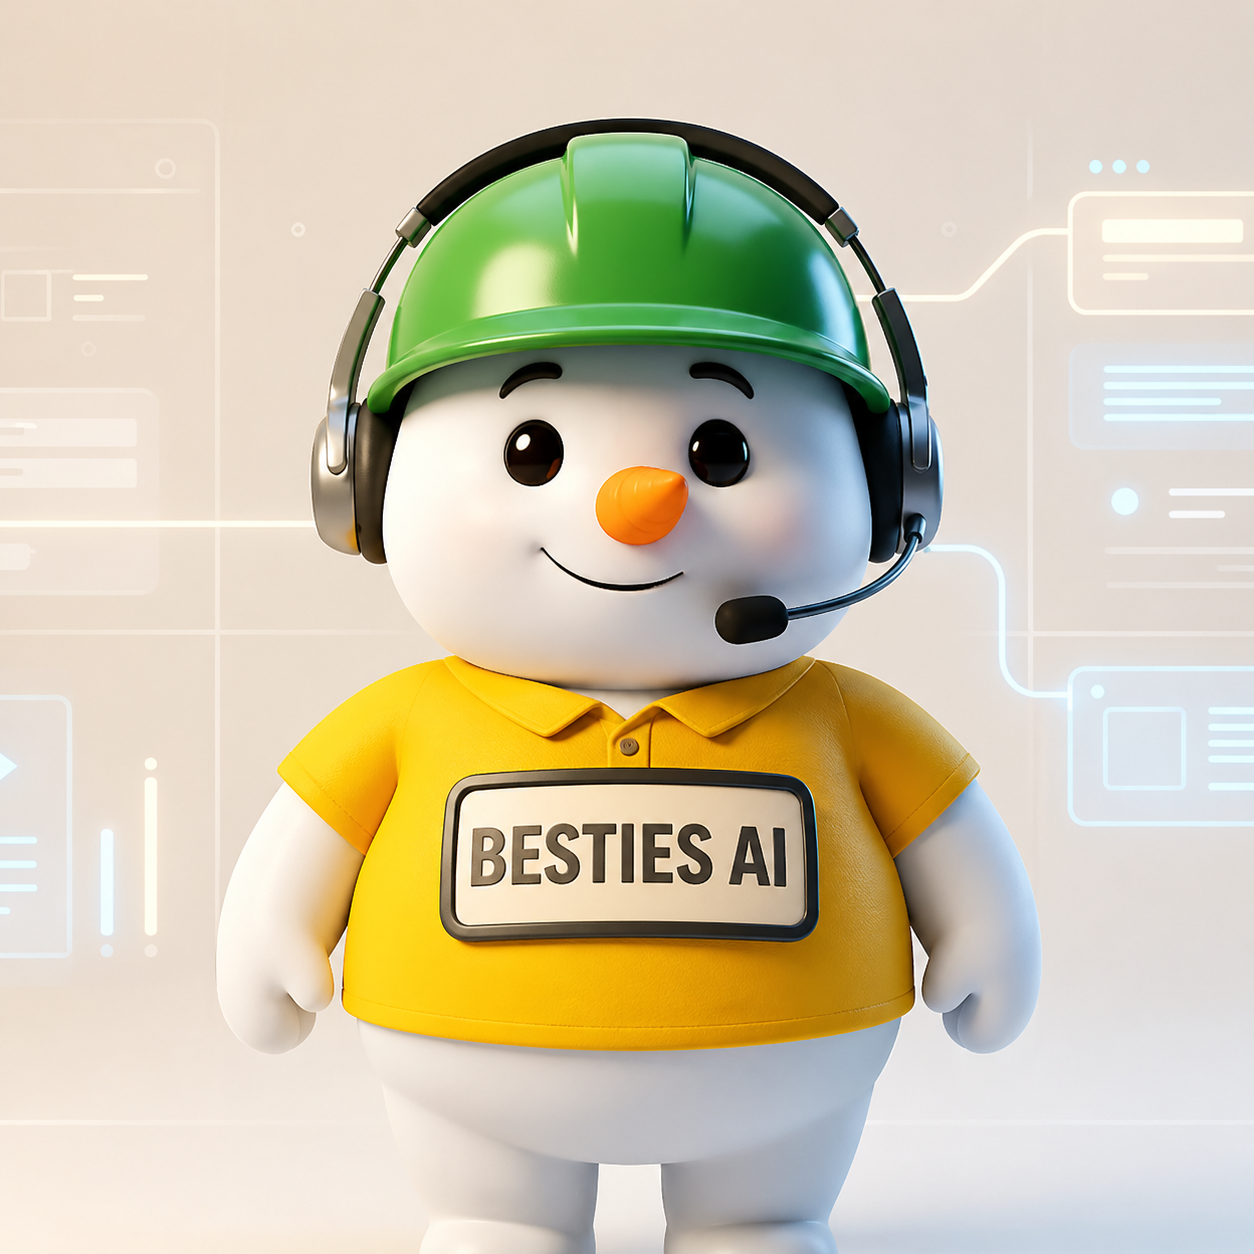
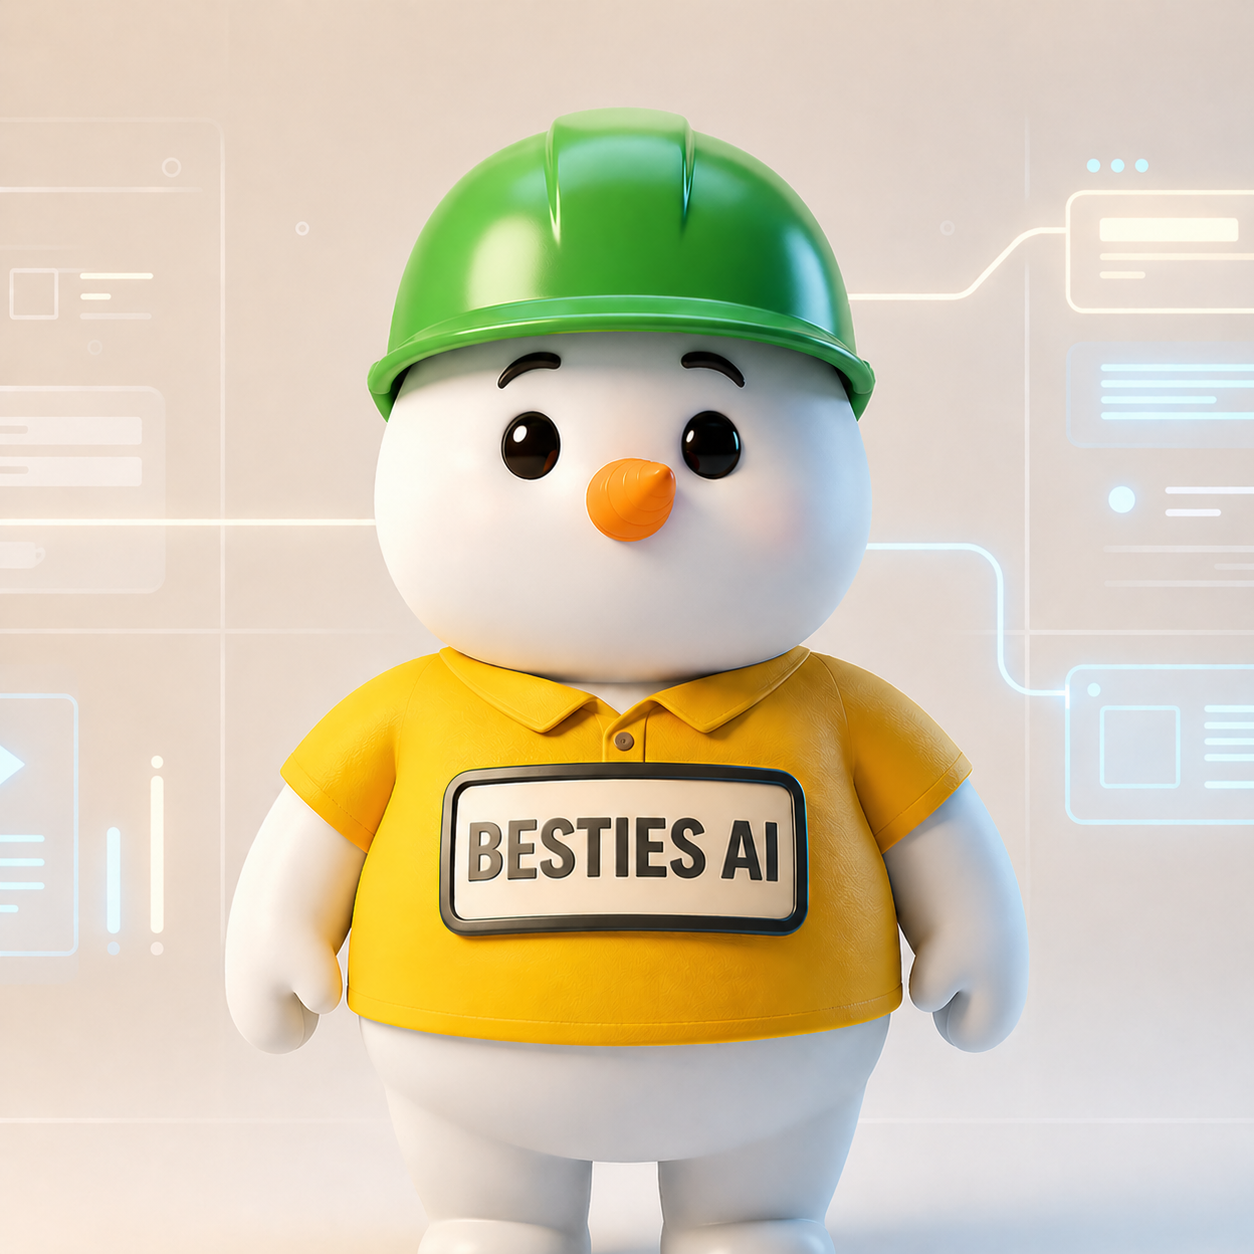
add animation for speak

diff --git a/besties-ai-system.html b/besties-ai-system.html
@@ -239,6 +239,77 @@
       z-index: 1;
     }
 
+    /* Mouth animation overlay */
+    .mouth-overlay {
+      position: absolute;
+      top: 45%;
+      left: 50%;
+      transform: translateX(-50%);
+      width: 32px;
+      height: 14px;
+      z-index: 2;
+      pointer-events: none;
+    }
+
+    /* Default smile mouth (A/I shape) */
+    .mouth-overlay::before {
+      content: '';
+      position: absolute;
+      width: 100%;
+      height: 100%;
+      background: #2a1a1a;
+      border-radius: 0 0 50% 50% / 0 0 100% 100%;
+      box-shadow: inset 0 -3px 8px rgba(0, 0, 0, 0.4);
+    }
+
+    .mouth-overlay::after {
+      content: '';
+      position: absolute;
+      bottom: 0;
+      left: 50%;
+      transform: translateX(-50%);
+      width: 85%;
+      height: 60%;
+      background: radial-gradient(ellipse at center top, #d45d5d 0%, #b84545 60%, #8a2f2f 100%);
+      border-radius: 0 0 50% 50% / 0 0 100% 100%;
+    }
+
+    /* Speaking animation - cycle through different mouth shapes */
+    .avatar-img-wrapper.speaking .mouth-overlay {
+      animation: mouth-talk 0.6s ease-in-out infinite;
+    }
+
+    @keyframes mouth-talk {
+      0% {
+        /* A/I - wide smile */
+        transform: translateX(-50%) scaleY(1) scaleX(1);
+      }
+      16% {
+        /* E - medium smile */
+        transform: translateX(-50%) scaleY(0.85) scaleX(0.95);
+      }
+      33% {
+        /* O - round open */
+        transform: translateX(-50%) scaleY(1.3) scaleX(0.7);
+      }
+      50% {
+        /* U - small round */
+        transform: translateX(-50%) scaleY(0.9) scaleX(0.65);
+      }
+      66% {
+        /* F/V - horizontal */
+        transform: translateX(-50%) scaleY(0.5) scaleX(1.1);
+      }
+      83% {
+        /* L - medium open */
+        transform: translateX(-50%) scaleY(1.1) scaleX(0.85);
+      }
+      100% {
+        /* Back to smile */
+        transform: translateX(-50%) scaleY(1) scaleX(1);
+      }
+    }
+
     /* Speaking ring pulse on avatar */
     .avatar-img-wrapper.speaking {
       border-color: var(--yellow);
@@ -884,7 +955,7 @@
       width: 100%;
       height: 100%;
       object-fit: cover;
-      object-position: center 15%;
+      object-position: center 10%;
     }
 
     .msg-avatar.user {
@@ -1435,6 +1506,7 @@
         <div class="avatar-img-wrapper" id="avatar-wrapper">
           <img src="Besties.png" alt="Besties AI" id="avatar-img"
             onerror="this.style.display='none';document.getElementById('avatar-fallback').style.display='flex'">
+          <div class="mouth-overlay" id="mouth-overlay"></div>
           <div id="avatar-fallback" class="avatar-fallback">
             <div style="font-size:64px;">⛄</div>
             <div style="color:var(--yellow);font-weight:700;font-size:16px;">BESTIES AI</div>

diff --git a/besties-display.html b/besties-display.html
@@ -109,6 +109,77 @@
     width: 100%; height: 100%; object-fit: cover; object-position: center 10%;
     display: block;
   }
+
+  /* Mouth animation overlay */
+  .mouth-overlay {
+    position: absolute;
+    top: 45%;
+    left: 50%;
+    transform: translateX(-50%);
+    width: 32px;
+    height: 14px;
+    z-index: 2;
+    pointer-events: none;
+  }
+
+  /* Default smile mouth (A/I shape) */
+  .mouth-overlay::before {
+    content: '';
+    position: absolute;
+    width: 100%;
+    height: 100%;
+    background: #2a1a1a;
+    border-radius: 0 0 50% 50% / 0 0 100% 100%;
+    box-shadow: inset 0 -3px 8px rgba(0, 0, 0, 0.4);
+  }
+
+  .mouth-overlay::after {
+    content: '';
+    position: absolute;
+    bottom: 0;
+    left: 50%;
+    transform: translateX(-50%);
+    width: 85%;
+    height: 60%;
+    background: radial-gradient(ellipse at center top, #d45d5d 0%, #b84545 60%, #8a2f2f 100%);
+    border-radius: 0 0 50% 50% / 0 0 100% 100%;
+  }
+
+  /* Speaking animation - cycle through different mouth shapes */
+  .avatar-wrapper.speaking .mouth-overlay {
+    animation: mouth-talk 0.6s ease-in-out infinite;
+  }
+
+  @keyframes mouth-talk {
+    0% {
+      /* A/I - wide smile */
+      transform: translateX(-50%) scaleY(1) scaleX(1);
+    }
+    16% {
+      /* E - medium smile */
+      transform: translateX(-50%) scaleY(0.85) scaleX(0.95);
+    }
+    33% {
+      /* O - round open */
+      transform: translateX(-50%) scaleY(1.3) scaleX(0.7);
+    }
+    50% {
+      /* U - small round */
+      transform: translateX(-50%) scaleY(0.9) scaleX(0.65);
+    }
+    66% {
+      /* F/V - horizontal */
+      transform: translateX(-50%) scaleY(0.5) scaleX(1.1);
+    }
+    83% {
+      /* L - medium open */
+      transform: translateX(-50%) scaleY(1.1) scaleX(0.85);
+    }
+    100% {
+      /* Back to smile */
+      transform: translateX(-50%) scaleY(1) scaleX(1);
+    }
+  }
   .avatar-wrapper.speaking {
     border-color: var(--yellow);
     animation: ring-pulse 0.7s ease-in-out infinite alternate;
@@ -333,6 +404,7 @@
       <div class="avatar-wrapper" id="d-avatar-wrapper">
         <img src="Besties.png" alt="Besties AI"
           onerror="this.style.display='none'">
+        <div class="mouth-overlay"></div>
         <div class="gesture-overlay">
           <div class="gesture-pop" id="d-gesture-pop"></div>
         </div>
